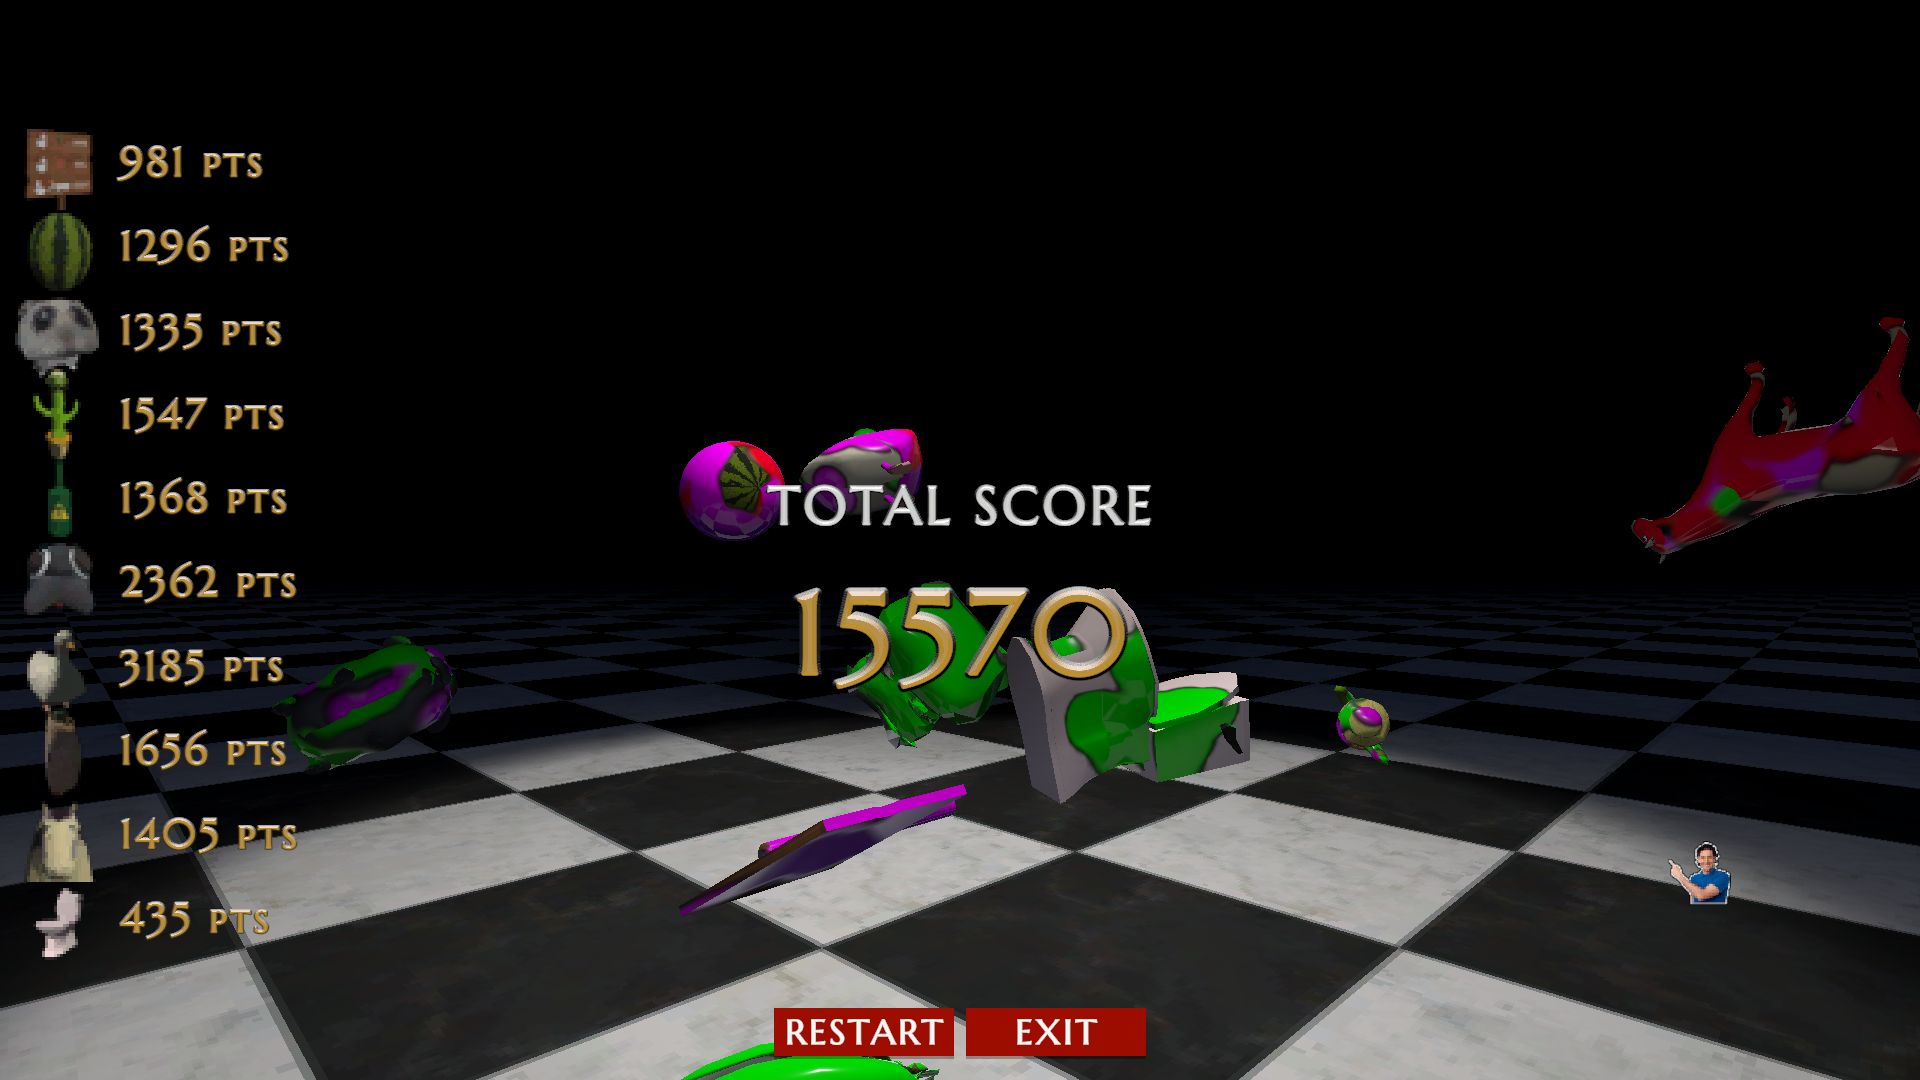
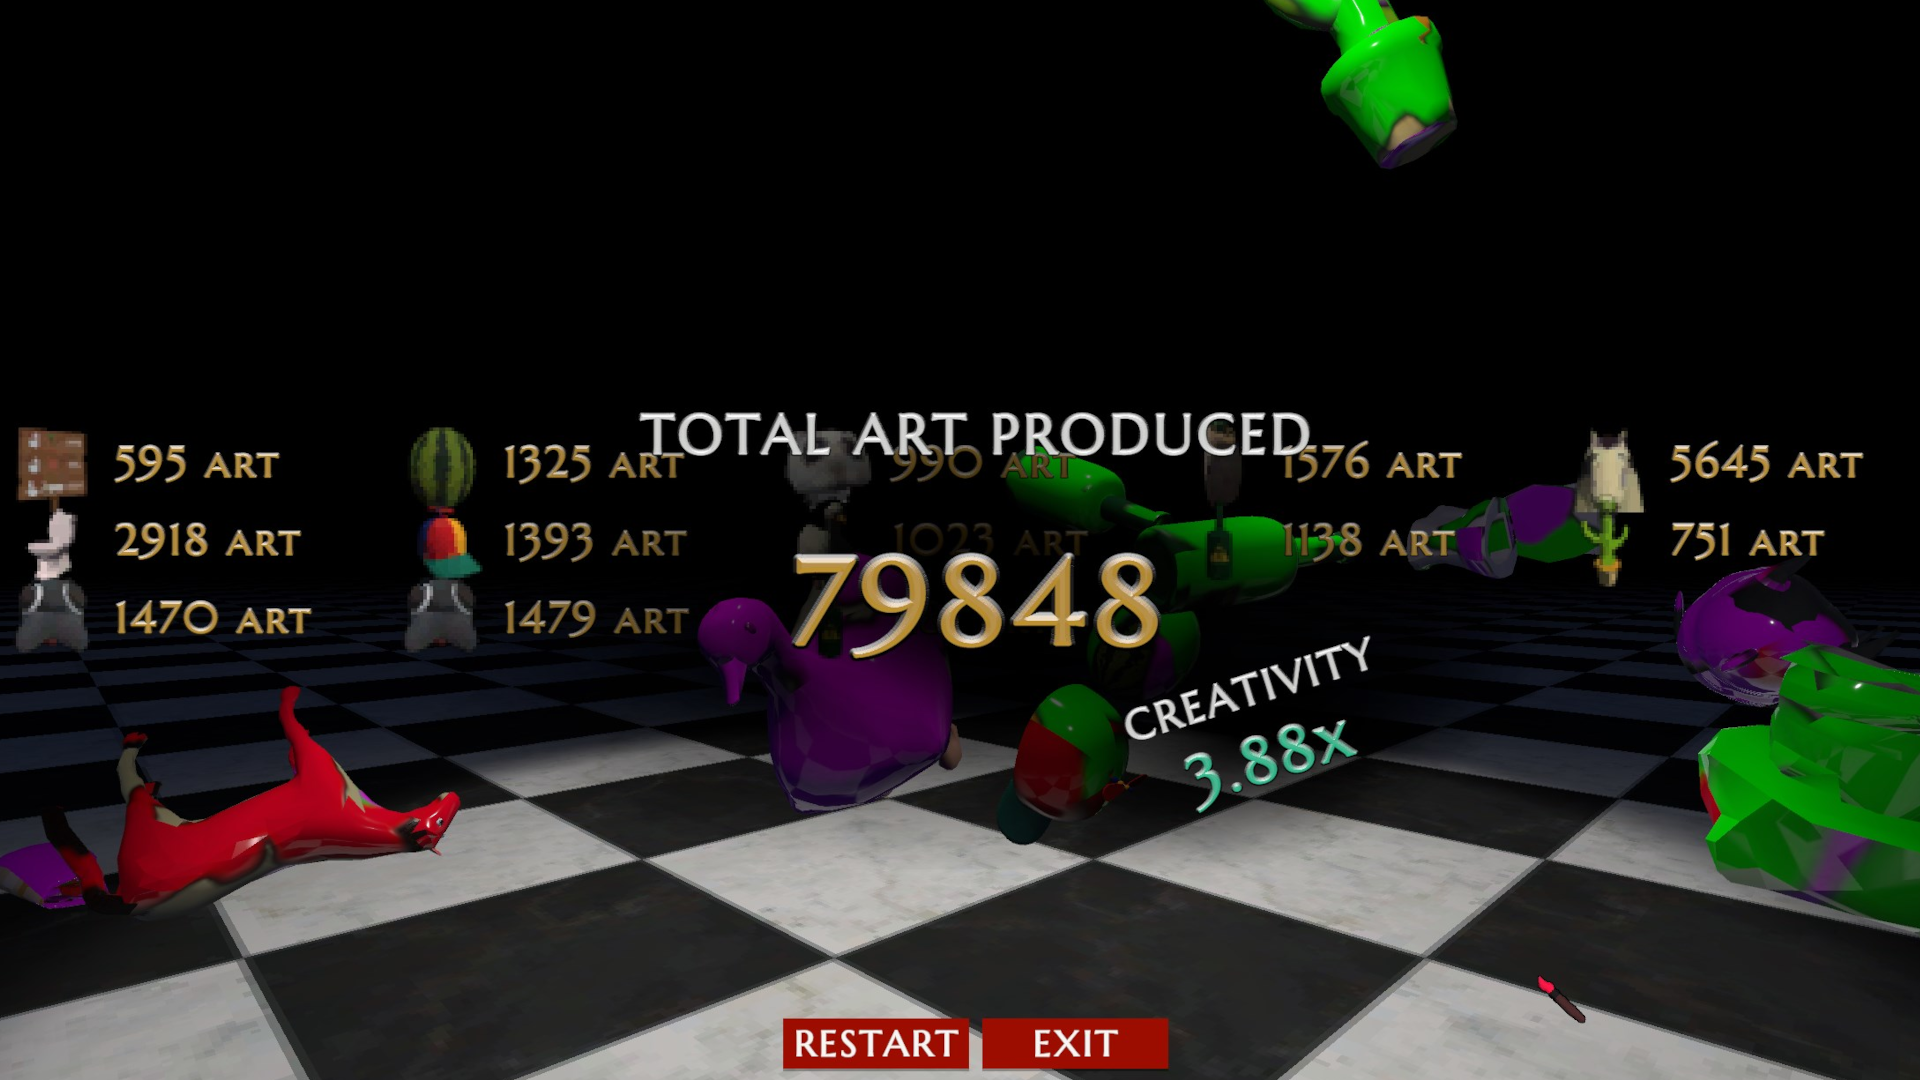
Update readme

diff --git a/README.md b/README.md
@@ -6,7 +6,15 @@
 
 ## About
 
-TODO
+Imagine having an entire art department on single workstation
+
+Introducing SPaint™ - the revolutionary graphics system designed to multiply and speedup the creativity output of your business
+
+Plan... Experiment... Explore... CREATE!
+
+SPaint™ combines advanced rendering technology with state-of-the-art creative tools that help transform ideas into fine art in record time
+
+Why create one masterpiece... when you can create dozens?
 
 ## Very Serious Juniper Dev Game Jam
 